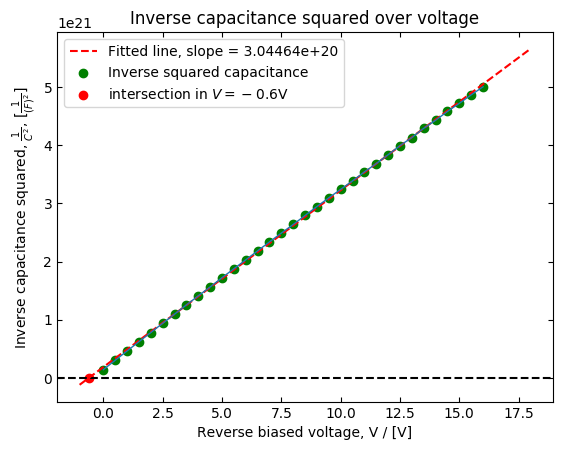
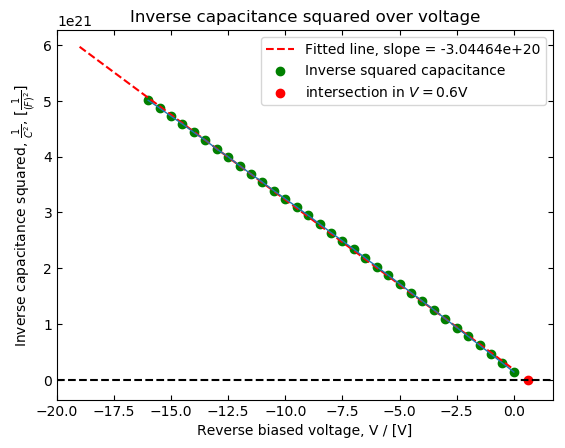
Updates

diff --git a/Plotters/InvSrqCapacitance.py b/Plotters/InvSrqCapacitance.py
@@ -25,16 +25,16 @@ for line in lines:
 #C *= 1e12 #Making this shit in pF bro
 OneOverCSquared = 1/(C**2)
 
-slope, intercept, r_value, p_value, std_err = stats.linregress(abs(V), OneOverCSquared)
+slope, intercept, r_value, p_value, std_err = stats.linregress(V, OneOverCSquared)
 print("slope: %f    intercept: %f" % (slope, intercept))
 
 
 #Plotting read data
 plt.axhline(y=0, color = "black", linestyle = "--")
-plt.plot(range(-1,19), intercept + slope*range(-1,19), color = 'r', label='Fitted line, slope = %g'%slope, linestyle = "--")
-plt.scatter(abs(V),OneOverCSquared, label = "Inverse squared capacitance", color = 'g')
-plt.plot(abs(V),OneOverCSquared, linewidth=1)
-plt.scatter(-0.6, 0, color = "r", label = r"intersection in $V = -0.6$V")
+plt.plot(range(-19,1), intercept + slope*range(-19,1), color = 'r', label='Fitted line, slope = %g'%slope, linestyle = "--")
+plt.scatter(V,OneOverCSquared, label = "Inverse squared capacitance", color = 'g')
+plt.plot(V,OneOverCSquared, linewidth=1)
+plt.scatter(0.6, 0, color = "r", label = r"intersection in $V = 0.6$V")
 
 
 plt.ylabel(r"Inverse capacitance squared, $\frac{1}{C^2}$, $[\frac{1}{(F)^2}]$")

diff --git a/Plotters/DepletionWidth.py b/Plotters/DepletionWidth.py
@@ -1,0 +1,32 @@
+import matplotlib.pyplot as plt
+import numpy as np
+import sys
+
+def func(V):
+    e = 11.8*8.85e-14
+    Vbi = 0.6
+    qNd = 0.0001008
+    W = np.sqrt((2*e*(Vbi-V))/(qNd))
+    return W
+
+V = np.linspace(0,-16, 17)
+W = func(V)*1000
+
+
+#Plotting read data
+
+
+plt.scatter(V,W, label = "W", color = 'g')
+plt.plot(V,W, linewidth=1)
+
+
+
+plt.ylabel(r"Depletion Width, $W$, $[\mu m]$")
+plt.xlabel(r"Reverse biased voltage, V / [V]")
+plt.tick_params(direction='in', top = 'true', right = 'true')
+plt.title(r"Depletion zone width")
+#plt.ylim(0,0.0006)
+plt.legend()
+
+plt.savefig("../Figures/DepletionWidth.png", bbox_inches='tight')
+plt.show()
